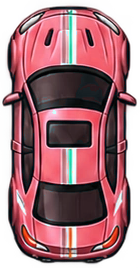
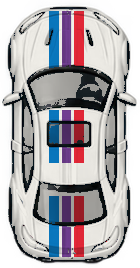
Replace alternate car liveries with race schemes

diff --git a/main.js b/main.js
@@ -618,9 +618,10 @@ function renderSelectedCarPreview(car,catalog) {
     const scores={speed:carMetricRating(car,'speed',catalog),accel:carMetricRating(car,'accel',catalog),handling:carMetricRating(car,'handling',catalog),grip:carMetricRating(car,'grip',catalog)};
     const balance=carBalanceRating(car,catalog),favorite=favoriteCarIds.has(car.id);
     const liveryVariant=getSelectedLiveryVariant(car);
+    const liveryName=liveryVariant===1?(getCarLivery(car,1).name||'Вариант 2'):'Основная';
     const metrics=[['Максимальная скорость',scores.speed],['Разгон',scores.accel],['Управляемость',scores.handling],['Сцепление',scores.grip]];
-    const liveryPicker=car.carClass==='F1'?'':`<div class="livery-picker" role="group" aria-label="Выбор расцветки"><span class="livery-picker-label">РАСЦВЕТКА</span>${[0,1].map(index=>{const palette=getCarLivery(car,index);return `<button class="livery-choice ${index===liveryVariant?'active':''}" type="button" data-livery-variant="${index}" aria-pressed="${index===liveryVariant}" aria-label="Расцветка ${index+1}" title="${index===0?'Основная':'Вариант 2'}"><i class="livery-swatch" style="--livery-primary:${palette.primary};--livery-secondary:${palette.secondary}"></i><span>${index+1}</span></button>`}).join('')}</div>`;
-    root.innerHTML=`<div class="selected-car-art"><span class="selected-car-class">${selectedCarClass==='TA'?'ГОРОДСКОЙ СПОРТ':selectedCarClass==='F1'?'FORMULA 1':'WEC · GT3'}</span><canvas id="selectedCarCanvas" width="280" height="300" aria-label="${car.shortName}, вид сверху"></canvas><div class="selected-car-caption"><h2>${car.shortName}</h2><p>${car.perf.note}</p><span>${DRIVETRAIN_LABELS[car.drivetrain]||car.drivetrain}</span></div><button class="selected-favorite ${favorite?'active':''}" type="button" aria-pressed="${favorite}" aria-label="${favorite?'Убрать из':'Добавить в'} избранное" title="${favorite?'Убрать из':'Добавить в'} избранное">${favorite?'♥':'♡'}</button></div><div class="selected-car-specs"><div class="balance-score"><strong>${balance}</strong><span>БАЛАНС</span></div><p class="rating-legend">Игровые оценки · от 1 до 100</p><div class="selected-stat-list">${metrics.map(([label,value])=>`<div class="selected-stat"><div><span>${label}</span><b>${value}</b></div><i><span style="width:${value}%"></span></i></div>`).join('')}</div><div class="selected-facts"><div><small>Класс</small><b>${selectedCarClass==='TA'?'Time Attack':selectedCarClass}</b></div><div><small>Привод</small><b>${car.drivetrain==='AWD'?'Полный':car.drivetrain==='FWD'?'Передний':'Задний'}</b></div><div><small>Масса</small><b>${car.character.mass} кг</b></div></div>${liveryPicker}<div class="select-this-car">Выбрана эта машина <span>✓</span></div></div>`;
+    const liveryPicker=car.carClass==='F1'?'':`<div class="livery-picker" role="group" aria-label="Выбор расцветки"><span class="livery-picker-label">РАСЦВЕТКА · ${liveryName}</span>${[0,1].map(index=>{const palette=getCarLivery(car,index),schemeName=index===1?(palette.name||'Вариант 2'):'Основная';return `<button class="livery-choice ${index===liveryVariant?'active':''}" type="button" data-livery-variant="${index}" aria-pressed="${index===liveryVariant}" aria-label="Расцветка ${index+1}: ${schemeName}" title="${schemeName}"><i class="livery-swatch" style="--livery-primary:${palette.primary};--livery-secondary:${palette.secondary}"></i><span>${index+1}</span></button>`}).join('')}</div>`;
+    root.innerHTML=`<div class="selected-car-art"><span class="selected-car-class">${selectedCarClass==='TA'?'ГОРОДСКОЙ СПОРТ':selectedCarClass==='F1'?'FORMULA 1':'WEC · GT3'}</span><canvas id="selectedCarCanvas" width="280" height="300" aria-label="${car.shortName}, вид сверху"></canvas><div class="selected-car-caption"><h2>${car.shortName}</h2><p>${car.perf.note}</p><span>${DRIVETRAIN_LABELS[car.drivetrain]||car.drivetrain}</span></div><button class="selected-favorite ${favorite?'active':''}" type="button" aria-pressed="${favorite}" aria-label="${favorite?'Убрать из':'Добавить в'} избранное" title="${favorite?'Убрать из':'Добавить в'} избранное">${favorite?'♥':'♡'}</button></div><div class="selected-car-specs"><div class="selected-spec-header"><p class="rating-legend">Игровые оценки · от 1 до 100</p><div class="balance-score"><strong>${balance}</strong><span>БАЛАНС</span></div></div><div class="selected-stat-list">${metrics.map(([label,value])=>`<div class="selected-stat"><div><span>${label}</span><b>${value}</b></div><i><span style="width:${value}%"></span></i></div>`).join('')}</div><div class="selected-facts"><div><small>Класс</small><b>${selectedCarClass==='TA'?'Time Attack':selectedCarClass}</b></div><div><small>Привод</small><b>${car.drivetrain==='AWD'?'Полный':car.drivetrain==='FWD'?'Передний':'Задний'}</b></div><div><small>Масса</small><b>${car.character.mass} кг</b></div></div>${liveryPicker}<div class="select-this-car">Выбрана эта машина <span>✓</span></div></div>`;
     drawCarThumb(document.getElementById('selectedCarCanvas'),car,liveryVariant);
     root.querySelector('.selected-favorite').addEventListener('click',()=>toggleFavoriteCar(car.id));
     root.querySelectorAll('[data-livery-variant]').forEach(button=>button.addEventListener('click',()=>setSelectedLiveryVariant(car.id,button.dataset.liveryVariant)));

diff --git a/data.js b/data.js
@@ -328,39 +328,43 @@ const TIME_ATTACK_CATALOG = [
       drivers:[{name:'GT-R R34',number:16,tier:'PLAYER',skill:1,cornerMult:1,aggression:.8}] }
 ];
 
-// The second static sprite set uses this companion palette in the selector
-// swatches and in the vector fallback for non-F1 cars.
-const SECOND_LIVERY_HUE_SHIFT = 150;
-function shiftLiveryColor(color, degrees = SECOND_LIVERY_HUE_SHIFT) {
-    const match = /^#?([\da-f]{6})$/i.exec(color || '');
-    if (!match) return color;
-    const value = parseInt(match[1], 16);
-    let r = ((value >> 16) & 255) / 255;
-    let g = ((value >> 8) & 255) / 255;
-    let b = (value & 255) / 255;
-    const max = Math.max(r, g, b), min = Math.min(r, g, b), delta = max - min;
-    let hue = 0;
-    if (delta) {
-        if (max === r) hue = 60 * (((g - b) / delta) % 6);
-        else if (max === g) hue = 60 * ((b - r) / delta + 2);
-        else hue = 60 * ((r - g) / delta + 4);
-    }
-    hue = (hue + degrees + 360) % 360;
-    const light = (max + min) / 2;
-    const saturation = delta ? delta / (1 - Math.abs(2 * light - 1)) : 0;
-    const chroma = (1 - Math.abs(2 * light - 1)) * saturation;
-    const section = hue / 60;
-    const x = chroma * (1 - Math.abs(section % 2 - 1));
-    let rgb = section < 1 ? [chroma, x, 0] : section < 2 ? [x, chroma, 0]
-        : section < 3 ? [0, chroma, x] : section < 4 ? [0, x, chroma]
-        : section < 5 ? [x, 0, chroma] : [chroma, 0, x];
-    const offset = light - chroma / 2;
-    return '#' + rgb.map(channel => Math.round((channel + offset) * 255).toString(16).padStart(2, '0')).join('');
-}
+// Variant 2 palettes correspond to named motorsport schemes also used by the
+// baked overhead sprites. These explicit colors keep the picker truthful.
+const SECOND_LIVERY_PALETTES = {
+    aston_gt3: { primary: '#174b38', secondary: '#b7d432', name: 'Heart of Racing' },
+    audi_gt3: { primary: '#62bfd8', secondary: '#f07828', name: 'Gulf Racing' },
+    bmw_gt3: { primary: '#eceff2', secondary: '#0876bd', name: 'BMW M Motorsport' },
+    corvette_gt3: { primary: '#f5cf00', secondary: '#15191e', name: 'Corvette Racing' },
+    ferrari_gt3: { primary: '#f0eee8', secondary: '#17191d', name: 'AF Corse #83' },
+    mustang_gt3: { primary: '#f1f0ec', secondary: '#07539a', name: 'Ford Performance' },
+    lambo_gt3: { primary: '#62bfd8', secondary: '#f07828', name: 'Gulf Racing' },
+    lexus_gt3: { primary: '#f4d21f', secondary: '#15191e', name: 'Vasser Sullivan' },
+    mclaren_gt3: { primary: '#62bfd8', secondary: '#f07828', name: 'Gulf Racing' },
+    mercedes_gt3: { primary: '#17191d', secondary: '#1677bd', name: 'Iron Lynx #61' },
+    porsche_gt3: { primary: '#b5cf29', secondary: '#f0d42f', name: 'Manthey Grello' },
+    bentley_gt3: { primary: '#f0eee8', secondary: '#16503d', name: 'Bentley M-Sport' },
+    ta_civic: { primary: '#0876bd', secondary: '#f2d52c', name: 'Spoon Sports' },
+    ta_megane_rs: { primary: '#17191d', secondary: '#f4d21f', name: 'Renault Sport' },
+    ta_kalina: { primary: '#0870ca', secondary: '#f0eee8', name: 'RATATA Racing' },
+    ta_granta: { primary: '#0870ca', secondary: '#f0eee8', name: 'RATATA Racing' },
+    ta_vesta: { primary: '#0870ca', secondary: '#f0eee8', name: 'RATATA Racing' },
+    ta_mx5: { primary: '#08753f', secondary: '#f07828', name: 'Mazda 787B' },
+    ta_gt86: { primary: '#f0eee8', secondary: '#e52a35', name: 'Toyota Gazoo Racing' },
+    ta_brz: { primary: '#07539a', secondary: '#f2d52b', name: 'Subaru STI' },
+    ta_bmw_m3: { primary: '#f0eee8', secondary: '#0876bd', name: 'BMW M Motorsport' },
+    ta_bmw_m4: { primary: '#17191d', secondary: '#0876bd', name: 'BMW M Motorsport' },
+    ta_s2000: { primary: '#f2d52b', secondary: '#0876bd', name: 'Spoon Sports' },
+    ta_silvia: { primary: '#f0eee8', secondary: '#d92332', name: 'NISMO' },
+    ta_porsche_911: { primary: '#f0eee8', secondary: '#0876bd', name: 'Martini Racing' },
+    ta_lancer_evo: { primary: '#f0eee8', secondary: '#d92332', name: 'Mitsubishi Ralliart' },
+    ta_wrx_sti: { primary: '#07539a', secondary: '#f2d52b', name: 'Subaru 555 Rally' },
+    ta_gtr34: { primary: '#0753a1', secondary: '#f0eee8', name: 'Calsonic Skyline' }
+};
 function getCarLivery(spec, variant = 0) {
     if (!spec) return {};
     if (spec.carClass === 'F1' || Number(variant) !== 1) return spec.livery;
-    return Object.fromEntries(Object.entries(spec.livery).map(([part, color]) => [part, shiftLiveryColor(color)]));
+    const palette = SECOND_LIVERY_PALETTES[spec.id];
+    return palette ? { ...spec.livery, ...palette, accent: palette.secondary } : spec.livery;
 }
 
 // ============================================================================

diff --git a/index.html b/index.html
@@ -5,7 +5,7 @@
     <meta name="viewport" content="width=device-width, initial-scale=1.0, user-scalable=no">
     <link rel="icon" href="data:,">
     <title>Full Stint — F1, GT3 &amp; Time Attack</title>
-    <link rel="stylesheet" href="styles.css?v=20261103-livery-options-2.21">
+    <link rel="stylesheet" href="styles.css?v=20261103-real-liveries-balance-v2">
 </head>
 <body tabindex="-1">
 
@@ -105,7 +105,7 @@
 <div id="garageModal" class="modal-overlay">
     <div class="modal-card garage-card" id="garageCard">
         <div class="modal-title">
-            <span>FULL STINT · 2.20</span>
+            <span>FULL STINT · 2.21</span>
             <div class="garage-top-tools"><span>F1 · GT3 · TIME ATTACK</span><button id="themeToggle" class="theme-toggle" type="button" aria-label="Переключить тему">Светлая тема</button></div>
         </div>
 
@@ -282,15 +282,15 @@
     </div>
 </div>
 
-<script src="data.js?v=20261103-liveries-2.21"></script>
+<script src="data.js?v=20261103-real-liveries-balance-v2"></script>
 <script src="circuits.js?v=20261103-time-attack-ghost-v4"></script>
 <script src="track-geometry.js?v=20261103-time-attack-ghost-v4"></script>
 <script src="vehicle-character.js?v=20261103-balance-2.20"></script>
 <script src="sprites.js?v=20261103-time-attack-ghost-v4"></script>
-<script src="sprite-overrides.js?v=20261103-static-liveries-v1"></script>
+<script src="sprite-overrides.js?v=20261103-real-liveries-balance-v2"></script>
 <script src="models.js?v=20261103-time-attack-ghost-v4"></script>
 <script src="track.js?v=20261103-time-attack-ghost-v4"></script>
-<script src="render2d.js?v=20261103-static-liveries-v1"></script>
+<script src="render2d.js?v=20261103-real-liveries-balance-v2"></script>
 
 <script src="topview.js?v=20261103-time-attack-ghost-v4"></script>
 <script src="audio.js?v=20261103-time-attack-16-car-v1"></script>
@@ -299,6 +299,6 @@
 <script src="season.js?v=20261103-time-attack-ghost-v4"></script>
 <script src="controls.js?v=20261103-review-controls-2.17"></script>
 <script src="ghost.js?v=20261103-portrait-notices-2.19"></script>
-<script src="main.js?v=20261103-static-liveries-v1"></script>
+<script src="main.js?v=20261103-real-liveries-balance-v2"></script>
 </body>
 </html>

diff --git a/styles.css b/styles.css
@@ -1047,11 +1047,12 @@ canvas#minimapCanvas {
 .selected-car-caption>span {flex:none;padding:7px 10px;border-radius:999px;background:#ffffffbc;color:#45545f;font-size:9px;font-weight:800;}
 .selected-favorite {position:absolute;top:16px;right:16px;z-index:3;width:42px;height:42px;border:0;border-radius:50%;background:#fff;color:#ec6863;font-size:24px;line-height:1;cursor:pointer;box-shadow:0 4px 15px #33415522;}
 .selected-favorite.active {color:#e84752;}
-.selected-car-specs {position:relative;padding:19px 20px;border:1px solid var(--fs-line);border-radius:22px;background:var(--fs-panel);}
-.balance-score {position:absolute;top:16px;right:18px;display:flex;flex-direction:column;align-items:center;justify-content:center;width:58px;height:58px;border-radius:18px;background:var(--fs-accent-soft);color:var(--fs-accent);}
+.selected-car-specs {padding:19px 20px;border:1px solid var(--fs-line);border-radius:22px;background:var(--fs-panel);}
+.selected-spec-header {display:flex;align-items:center;justify-content:space-between;gap:12px;margin:0 0 14px;}
+.balance-score {display:flex;flex:0 0 58px;flex-direction:column;align-items:center;justify-content:center;width:58px;height:58px;border-radius:18px;background:var(--fs-accent-soft);color:var(--fs-accent);}
 .balance-score strong {font-size:23px;line-height:1;}
 .balance-score span {margin-top:4px;font-size:8px;font-weight:800;letter-spacing:.08em;}
-.rating-legend {margin:0 70px 17px 0;color:var(--fs-muted);font-size:11px;}
+.rating-legend {min-width:0;margin:0;color:var(--fs-muted);font-size:11px;}
 .selected-stat-list {display:grid;gap:13px;}
 .selected-stat>div {display:flex;justify-content:space-between;gap:10px;margin-bottom:5px;font-size:12px;font-weight:700;}
 .selected-stat>div span {color:var(--fs-text);}
@@ -1164,7 +1165,7 @@ canvas#minimapCanvas {width:100%;height:auto;aspect-ratio:10/7;}
     .selected-car-art {min-height:245px;padding:13px 16px;}
     #selectedCarCanvas {top:15px;width:190px;height:195px;}
     .selected-car-specs {padding:13px;}
-    .rating-legend {margin-bottom:9px;}
+    .selected-spec-header {margin-bottom:8px;}
     .selected-stat-list {gap:8px;}
     .selected-stat>div {margin-bottom:3px;}
     .selected-stat>i {height:6px;}

diff --git a/sprite-overrides.js b/sprite-overrides.js
@@ -11,6 +11,6 @@ if (typeof SPRITE_DATA !== 'undefined') {
         'ta_lancer_evo', 'ta_wrx_sti', 'ta_gtr34'
     ];
     alternateLiveryIds.forEach(id => {
-        SPRITE_DATA[`${id}__livery2`] = `assets/liveries/${id}-alt.png`;
+        SPRITE_DATA[`${id}__livery2`] = `assets/liveries/${id}-alt.png?v=20261103-real-schemes-v2`;
     });
 }

diff --git a/scripts/generate-livery-sprites.py b/scripts/generate-livery-sprites.py
@@ -1,5 +1,5 @@
 #!/usr/bin/env python3
-"""Bake alternate-color PNG sprites from the game's existing overhead art."""
+"""Bake alternate racing liveries while preserving the original car silhouettes."""
 
 import base64
 import io
@@ -23,36 +23,138 @@ TA_RECTS = {
     "ta_wrx_sti": (701, 934, 147, 278), "ta_gtr34": (982, 937, 149, 276),
 }
 
+# Recognizable real-world competition schemes. The shapes are painted over the
+# existing body mask, so no generated variant changes the car model itself.
+# Coordinates are normalized across the sprite; y=0 is the nose, y=1 the tail.
+LIVERIES = {
+    "aston_gt3": {"name": "Heart of Racing", "primary": "#174b38", "secondary": "#b7d432", "stripes": [(0.43, 0.48, 0.06, 0.94, "#b7d432"), (0.52, 0.57, 0.06, 0.94, "#f0f0e8")]},
+    "audi_gt3": {"name": "Gulf Racing", "primary": "#62bfd8", "secondary": "#f07828", "stripes": [(0.44, 0.56, 0.04, 0.95, "#f07828"), (0.39, 0.43, 0.04, 0.95, "#f1eee2"), (0.57, 0.61, 0.04, 0.95, "#f1eee2")]},
+    "bmw_gt3": {"name": "BMW M Motorsport", "primary": "#eceff2", "secondary": "#0876bd", "stripes": [(0.38, 0.44, 0.05, 0.95, "#0876bd"), (0.45, 0.50, 0.05, 0.95, "#713d91"), (0.51, 0.57, 0.05, 0.95, "#e52636")]},
+    "corvette_gt3": {"name": "Corvette Racing", "primary": "#f5cf00", "secondary": "#15191e", "stripes": [(0.42, 0.47, 0.06, 0.93, "#15191e"), (0.53, 0.58, 0.06, 0.93, "#15191e")]},
+    "ferrari_gt3": {"name": "AF Corse #83", "primary": "#f0eee8", "secondary": "#17191d", "bands": [(0.10, 0.50, "#17191d"), (0.66, 0.96, "#17191d")], "stripes": [(0.45, 0.55, 0.05, 0.95, "#f0eee8")]},
+    "mustang_gt3": {"name": "Ford Performance", "primary": "#f1f0ec", "secondary": "#07539a", "stripes": [(0.39, 0.45, 0.05, 0.96, "#07539a"), (0.47, 0.53, 0.05, 0.96, "#e12837"), (0.55, 0.61, 0.05, 0.96, "#07539a")]},
+    "lambo_gt3": {"name": "Gulf Racing", "primary": "#62bfd8", "secondary": "#f07828", "stripes": [(0.43, 0.57, 0.04, 0.94, "#f07828"), (0.38, 0.42, 0.04, 0.94, "#f1eee2"), (0.58, 0.62, 0.04, 0.94, "#f1eee2")]},
+    "lexus_gt3": {"name": "Vasser Sullivan", "primary": "#f4d21f", "secondary": "#15191e", "bands": [(0.08, 0.32, "#15191e")], "stripes": [(0.44, 0.56, 0.08, 0.94, "#15191e")]},
+    "mclaren_gt3": {"name": "Gulf Racing", "primary": "#62bfd8", "secondary": "#f07828", "stripes": [(0.43, 0.57, 0.04, 0.95, "#f07828"), (0.38, 0.42, 0.04, 0.95, "#f1eee2"), (0.58, 0.62, 0.04, 0.95, "#f1eee2")]},
+    "mercedes_gt3": {"name": "Iron Lynx #61", "primary": "#17191d", "secondary": "#1677bd", "neutral_body": True, "stripes": [(0.46, 0.54, 0.04, 0.96, "#1677bd")]},
+    "porsche_gt3": {"name": "Manthey Grello", "primary": "#b5cf29", "secondary": "#f0d42f", "stripes": [(0.40, 0.46, 0.04, 0.95, "#f0d42f"), (0.54, 0.60, 0.04, 0.95, "#17191d")]},
+    "bentley_gt3": {"name": "Bentley M-Sport", "primary": "#f0eee8", "secondary": "#16503d", "stripes": [(0.40, 0.47, 0.05, 0.95, "#16503d"), (0.53, 0.60, 0.05, 0.95, "#16503d")]},
+    "ta_civic": {"name": "Spoon Sports", "primary": "#0876bd", "secondary": "#f2d52c", "bands": [(0.08, 0.38, "#0876bd"), (0.38, 0.94, "#f2d52c")], "stripes": [(0.45, 0.55, 0.05, 0.95, "#f0eee8")]},
+    "ta_megane_rs": {"name": "Renault Sport", "primary": "#17191d", "secondary": "#f4d21f", "stripes": [(0.42, 0.49, 0.05, 0.95, "#f4d21f"), (0.51, 0.58, 0.05, 0.95, "#f0eee8")]},
+    "ta_kalina": {"name": "RATATA Racing", "primary": "#0870ca", "secondary": "#f0eee8", "bands": [(0.03, 0.38, "#0870ca"), (0.38, 0.69, "#f0eee8"), (0.69, 0.95, "#d92332")], "stripes": [(0.46, 0.54, 0.38, 0.70, "#d92332")]},
+    "ta_granta": {"name": "RATATA Racing", "primary": "#0870ca", "secondary": "#f0eee8", "bands": [(0.03, 0.38, "#0870ca"), (0.38, 0.69, "#f0eee8"), (0.69, 0.95, "#d92332")], "stripes": [(0.46, 0.54, 0.38, 0.70, "#d92332")]},
+    "ta_vesta": {"name": "RATATA Racing", "primary": "#0870ca", "secondary": "#f0eee8", "bands": [(0.03, 0.38, "#0870ca"), (0.38, 0.69, "#f0eee8"), (0.69, 0.95, "#d92332")], "stripes": [(0.46, 0.54, 0.38, 0.70, "#d92332")]},
+    "ta_mx5": {"name": "Mazda 787B", "primary": "#08753f", "secondary": "#f07828", "stripes": [(0.39, 0.47, 0.05, 0.94, "#f07828"), (0.53, 0.61, 0.05, 0.94, "#f07828"), (0.47, 0.53, 0.10, 0.88, "#f0eee8")]},
+    "ta_gt86": {"name": "Toyota Gazoo Racing", "primary": "#f0eee8", "secondary": "#e52a35", "stripes": [(0.39, 0.47, 0.05, 0.95, "#e52a35"), (0.53, 0.61, 0.05, 0.95, "#17191d")]},
+    "ta_brz": {"name": "Subaru STI", "primary": "#07539a", "secondary": "#f2d52b", "stripes": [(0.43, 0.49, 0.04, 0.95, "#f2d52b"), (0.51, 0.57, 0.04, 0.95, "#f0eee8")]},
+    "ta_bmw_m3": {"name": "BMW M Motorsport", "primary": "#f0eee8", "secondary": "#0876bd", "stripes": [(0.35, 0.42, 0.04, 0.96, "#0876bd"), (0.44, 0.51, 0.04, 0.96, "#713d91"), (0.53, 0.60, 0.04, 0.96, "#e52636")]},
+    "ta_bmw_m4": {"name": "BMW M Motorsport", "primary": "#17191d", "secondary": "#0876bd", "stripes": [(0.38, 0.45, 0.04, 0.96, "#0876bd"), (0.47, 0.53, 0.04, 0.96, "#713d91"), (0.55, 0.62, 0.04, 0.96, "#e52636")]},
+    "ta_s2000": {"name": "Spoon Sports", "primary": "#f2d52b", "secondary": "#0876bd", "stripes": [(0.43, 0.57, 0.05, 0.95, "#0876bd")]},
+    "ta_silvia": {"name": "NISMO", "primary": "#f0eee8", "secondary": "#d92332", "bands": [(0.08, 0.26, "#d92332"), (0.72, 0.94, "#d92332")], "stripes": [(0.44, 0.56, 0.05, 0.95, "#17191d")]},
+    "ta_porsche_911": {"name": "Martini Racing", "primary": "#f0eee8", "secondary": "#0876bd", "stripes": [(0.38, 0.45, 0.04, 0.96, "#0876bd"), (0.47, 0.53, 0.04, 0.96, "#e52636"), (0.55, 0.62, 0.04, 0.96, "#0876bd")]},
+    "ta_lancer_evo": {"name": "Mitsubishi Ralliart", "primary": "#f0eee8", "secondary": "#d92332", "stripes": [(0.40, 0.47, 0.04, 0.95, "#d92332"), (0.53, 0.60, 0.04, 0.95, "#17191d")]},
+    "ta_wrx_sti": {"name": "Subaru 555 Rally", "primary": "#07539a", "secondary": "#f2d52b", "stripes": [(0.39, 0.47, 0.04, 0.96, "#f2d52b"), (0.53, 0.61, 0.04, 0.96, "#f0eee8")]},
+    "ta_gtr34": {"name": "Calsonic Skyline", "primary": "#0753a1", "secondary": "#f0eee8", "stripes": [(0.39, 0.47, 0.04, 0.96, "#f0eee8"), (0.53, 0.61, 0.04, 0.96, "#f0eee8")]},
+}
+
+
+def _hex_rgb(color: str) -> np.ndarray:
+    return np.array([int(color[index:index + 2], 16) for index in (1, 3, 5)], dtype=np.float32)
+
+
+def _rear_lamp_mask(rgba: np.ndarray, hsv: np.ndarray) -> np.ndarray:
+    """Retain only small, isolated red lamp details near the rear corners."""
+    height, width = rgba.shape[:2]
+    hue, saturation, value = hsv[:, :, 0], hsv[:, :, 1], hsv[:, :, 2]
+    candidates = (
+        (rgba[:, :, 3] > 16)
+        & ((hue < 18) | (hue > 246))
+        & (saturation > 100)
+        & (value > 75)
+    )
+    candidates[: int(height * 0.76)] = False
+    lamps = np.zeros((height, width), dtype=bool)
+    seen = np.zeros((height, width), dtype=bool)
+    for y0, x0 in zip(*np.where(candidates)):
+        if seen[y0, x0]:
+            continue
+        stack = [(int(y0), int(x0))]
+        seen[y0, x0] = True
+        component = []
+        while stack:
+            y, x = stack.pop()
+            component.append((y, x))
+            for ny in range(max(0, y - 1), min(height, y + 2)):
+                for nx in range(max(0, x - 1), min(width, x + 2)):
+                    if candidates[ny, nx] and not seen[ny, nx]:
+                        seen[ny, nx] = True
+                        stack.append((ny, nx))
+        xs = [point[1] for point in component]
+        ys = [point[0] for point in component]
+        center_x = (min(xs) + max(xs)) / 2
+        at_outer_corner = center_x < width * 0.30 or center_x > width * 0.70
+        compact = (
+            len(component) <= max(60, int(width * height * 0.0015))
+            and max(xs) - min(xs) <= width * 0.14
+            and max(ys) - min(ys) <= height * 0.07
+        )
+        if at_outer_corner and compact and min(ys) >= height * 0.80:
+            for y, x in component:
+                lamps[y, x] = True
+    return lamps
+
 
 def write_variant(car_id: str, source: Image.Image) -> None:
     source = source.convert("RGBA")
     rgba = np.array(source, dtype=np.uint8)
     hsv = np.array(source.convert("HSV"), dtype=np.uint8)
     height, width = rgba.shape[:2]
-    hue, saturation, value = hsv[:, :, 0], hsv[:, :, 1], hsv[:, :, 2]
+    scheme = LIVERIES[car_id]
+    value = hsv[:, :, 2].astype(np.float32)
+    y, x = np.mgrid[0:height, 0:width]
+    nx, ny = (x + 0.5) / width, (y + 0.5) / height
 
-    # The cars all face up. Keep red rear-lamp pixels in the tail section true
-    # red while changing the body and its colored stripes to the alternate paint.
-    y, _x = np.mgrid[0:height, 0:width]
-    rear_lamps = (
-        (y >= height * 0.82)
-        & (rgba[:, :, 3] > 8)
-        & (saturation > 35)
-        & (value > 45)
-        & ((hue < 28) | (hue > 244))
+    # Include painted white body panels as well as saturated paint; dark glass,
+    # tires, outlines, and shadows stay untouched. Brightness preserves the
+    # original sprite's shading and highlights.
+    paint = (
+        (rgba[:, :, 3] > 16)
+        & (((hsv[:, :, 1] > 38) & (value > 35)) | (value > 172))
     )
-    painted_pixels = (
-        (rgba[:, :, 3] > 8)
-        & (saturation > 45)
-        & (value > 35)
-        & ~rear_lamps
-    )
-    hsv[:, :, 0][painted_pixels] = (
-        hue[painted_pixels].astype(np.uint16) + 106
-    ).astype(np.uint8)
+    if scheme.get("neutral_body"):
+        neutral_body = (
+            (rgba[:, :, 3] > 16)
+            & (hsv[:, :, 1] <= 38)
+            & (value > 82)
+            & ((nx < 0.33) | (nx > 0.67) | (ny < 0.20) | (ny > 0.78))
+        )
+        paint |= neutral_body
+    lamp_mask = _rear_lamp_mask(rgba, hsv)
+    paint &= ~lamp_mask
 
-    result = Image.fromarray(hsv, "HSV").convert("RGBA")
-    result.putalpha(source.getchannel("A"))
+    output = rgba[:, :, :3].astype(np.float32)
+    brightness = np.clip(0.58 + value / 255.0 * 0.42, 0.58, 1.0)
+
+    def apply_color(mask: np.ndarray, color: str) -> None:
+        target = _hex_rgb(color)
+        output[mask] = np.clip(target[None, :] * brightness[mask, None], 0, 255)
+
+    apply_color(paint, scheme["primary"])
+
+    # Keep racing graphics off the windshield and rear glass. A few sprites have
+    # bright reflections in these dark areas, which otherwise catch the bands.
+    glass_reflections = (
+        (nx >= 0.23) & (nx <= 0.77)
+        & (((ny >= 0.27) & (ny <= 0.41)) | ((ny >= 0.61) & (ny <= 0.73)) )
+    )
+    graphics_mask = paint & ~glass_reflections
+    for y0, y1, color in scheme.get("bands", []):
+        apply_color(graphics_mask & (ny >= y0) & (ny < y1), color)
+    for x0, x1, y0, y1, color in scheme.get("stripes", []):
+        apply_color(graphics_mask & (nx >= x0) & (nx < x1) & (ny >= y0) & (ny < y1), color)
+
+    output[ lamp_mask ] = np.array([220, 35, 48], dtype=np.float32)
+    result = Image.fromarray(np.dstack([np.clip(output, 0, 255).astype(np.uint8), rgba[:, :, 3]]), "RGBA")
     OUTPUT.mkdir(parents=True, exist_ok=True)
     result.save(OUTPUT / f"{car_id}-alt.png", optimize=True)
 
@@ -90,6 +192,9 @@ def main() -> None:
     for car_id, (x, y, width, height) in TA_RECTS.items():
         sources[car_id] = atlas.crop((x, y, x + width, y + height))
 
+    missing = set(sources) - set(LIVERIES)
+    if missing:
+        raise ValueError(f"Missing alternate livery definitions: {sorted(missing)}")
     for car_id, source in sources.items():
         write_variant(car_id, source)
 
